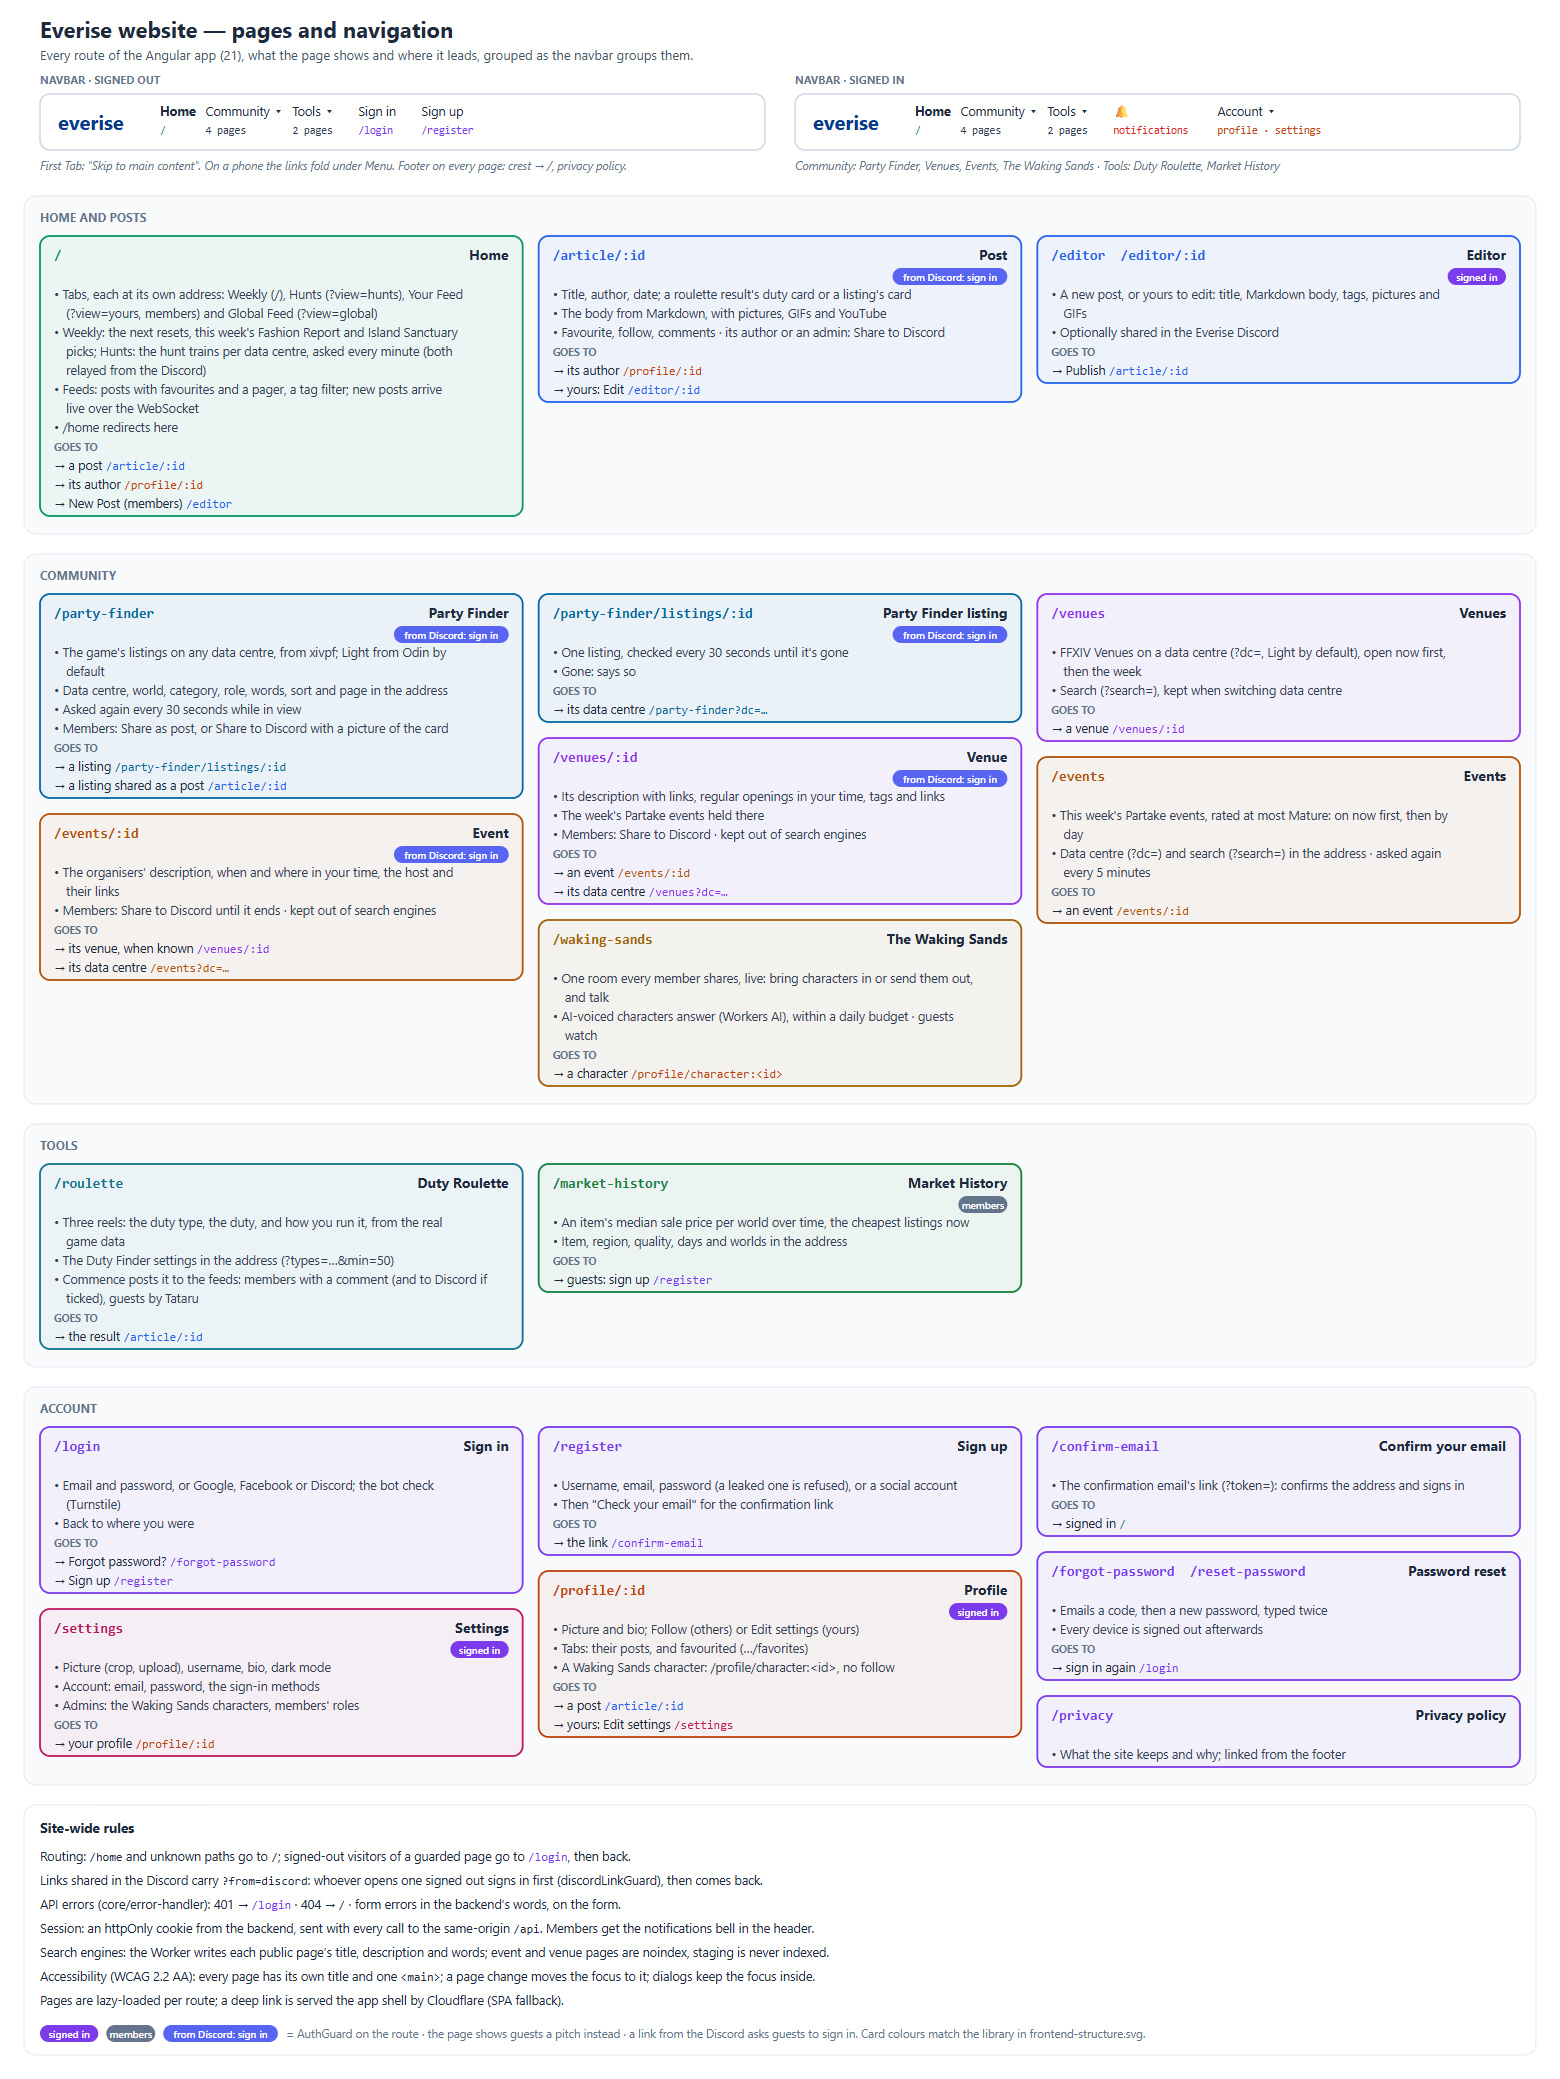
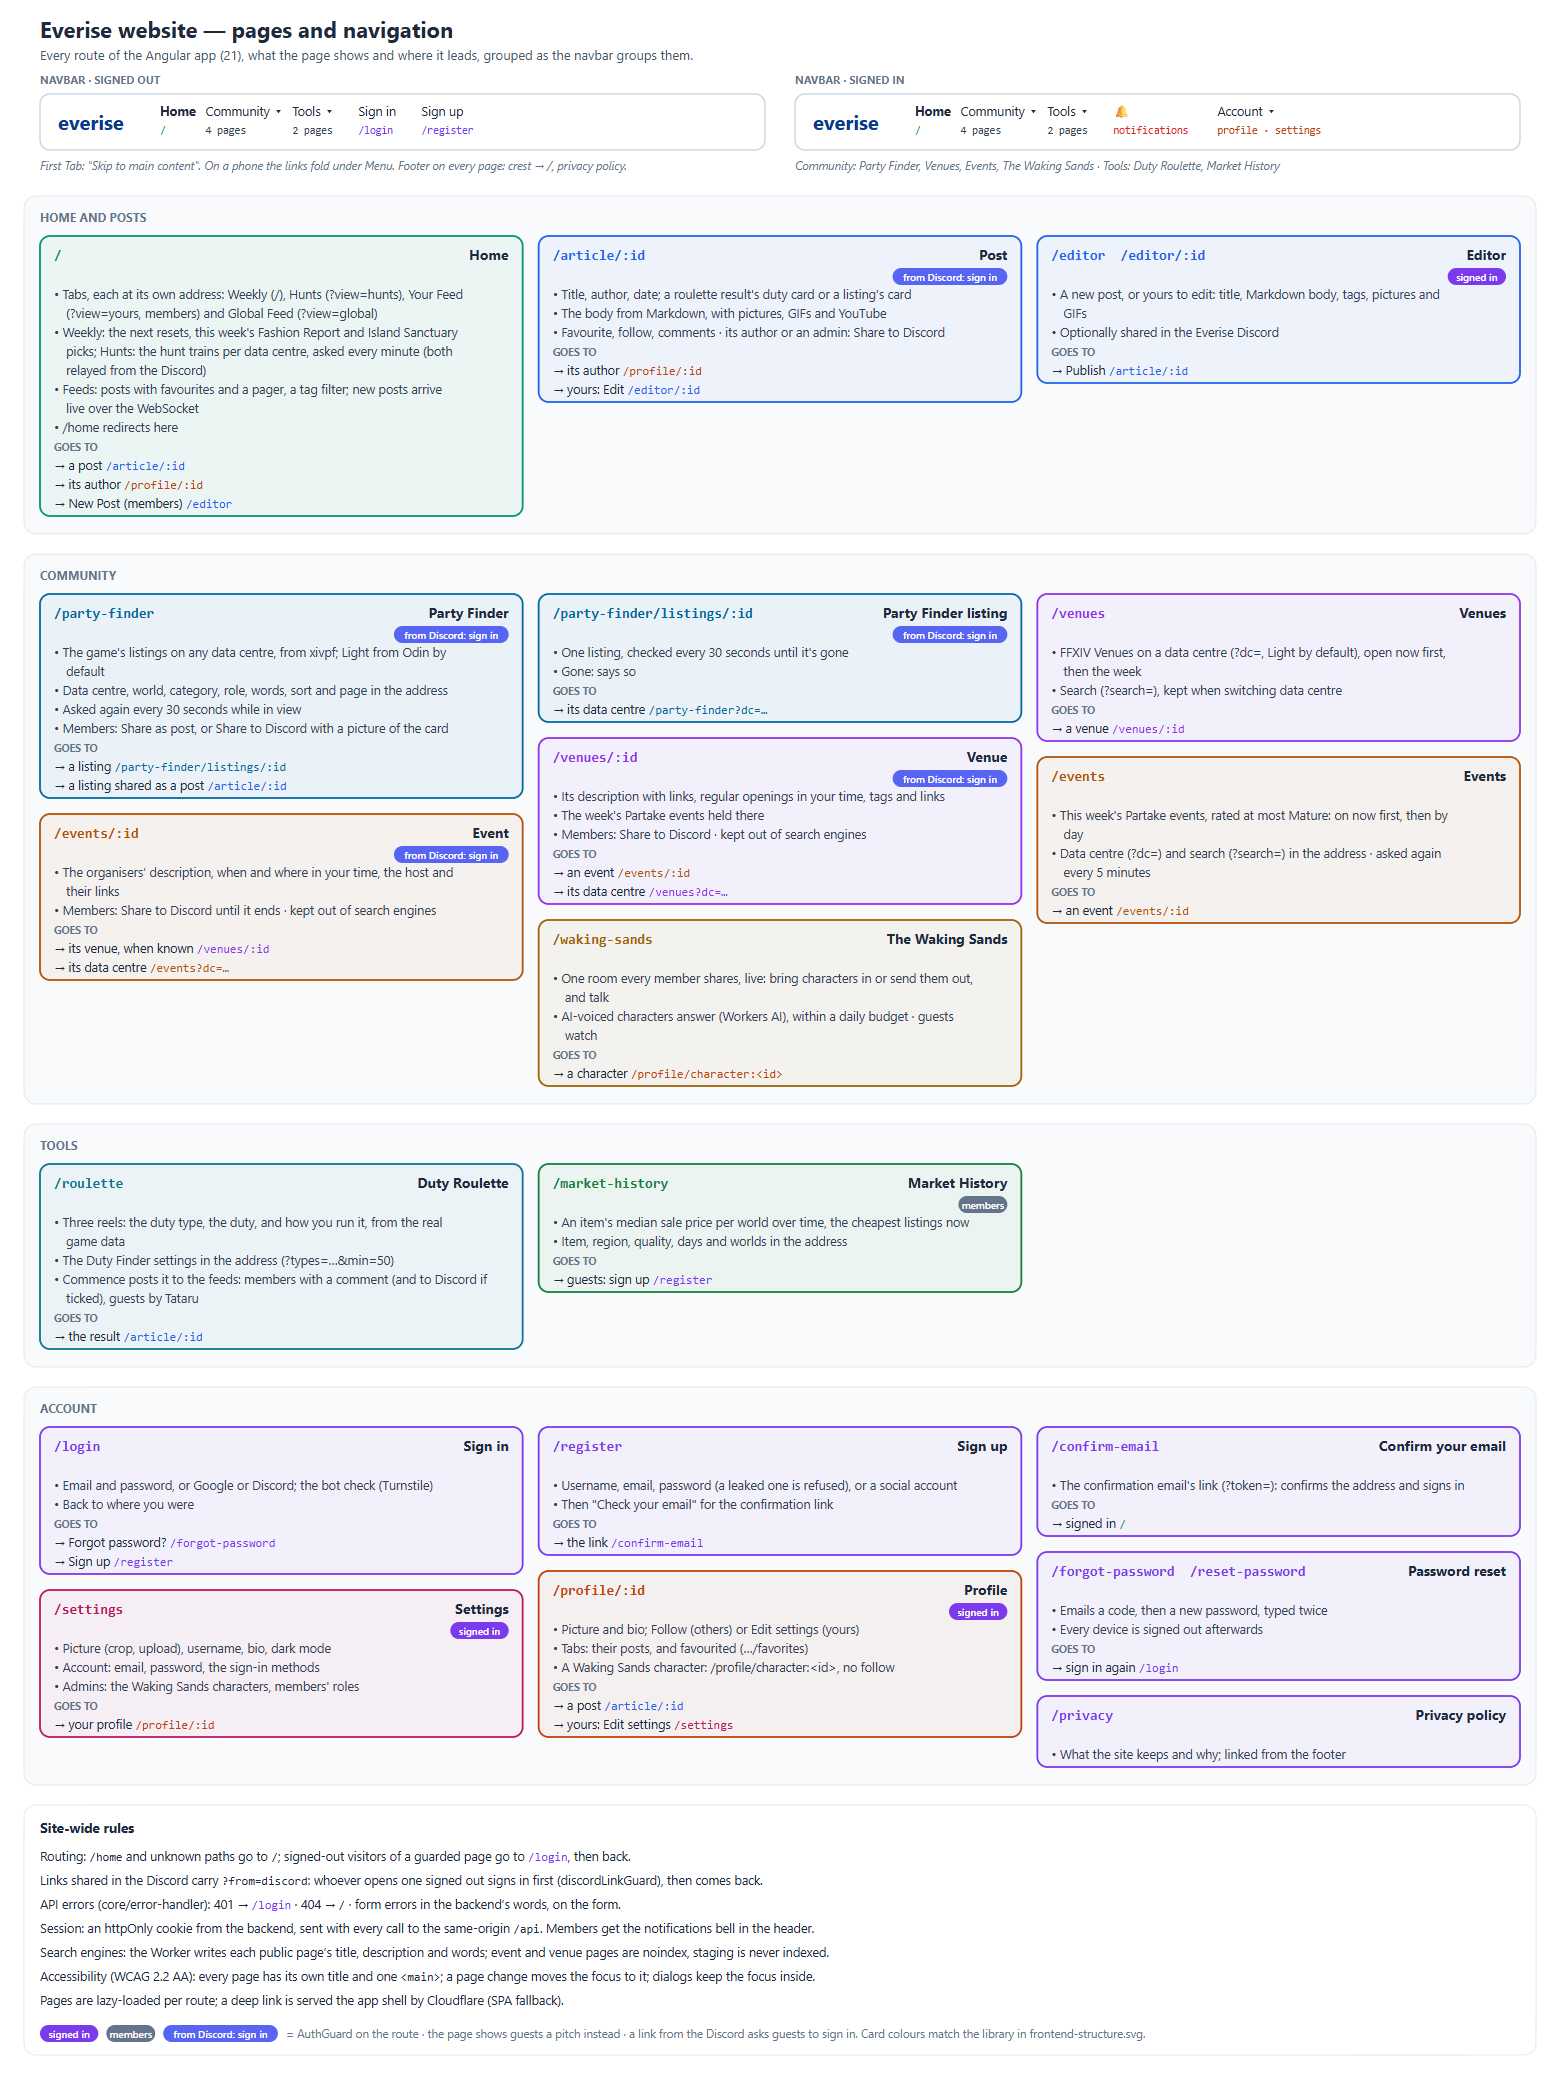
feat(auth)!: drop Facebook and Microsoft sign-in (#152)
Only Google and Discord sign-in are used, and the backend no longer
offers the others (everise-backend#105). The sign-in buttons, the
settings' list of tied accounts and the admin's member list name only
Google and Discord; their logos are gone; the privacy policy (dated
today) no longer mentions Facebook or Microsoft; the API types are
regenerated.

BREAKING CHANGE: SignInMethod no longer includes "facebook" or
"microsoft".

Changed region(s): [[0.0308, 0.708, 0.2769, 0.862], [0.2769, 0.7388, 0.3385, 0.8004]]

diff --git a/libs/auth/feature-auth/src/privacy/privacy.component.html b/libs/auth/feature-auth/src/privacy/privacy.component.html
@@ -2,7 +2,7 @@
   <div class="row">
     <article class="col-md-8 offset-md-2 col-xs-12 xiv-prose">
       <h1>Privacy policy</h1>
-      <p class="updated">Last updated 5 October 2026</p>
+      <p class="updated">Last updated 20 October 2026</p>
 
       <p>
         Everise is a small, non-commercial fan site for Final Fantasy XIV players. This page says what it stores about
@@ -17,10 +17,10 @@
           set one, and anything you add in Settings: a bio, a profile picture and your colour mode.
         </li>
         <li>
-          <strong>Signing in with Google, Facebook, Microsoft or Discord:</strong> if you continue with one of them,
-          Everise receives your name, your confirmed email address and that account's id. It keeps the email and the id,
-          to recognise you next time, and uses the name only to suggest your username. It never sees your password there
-          and never posts anything for you.
+          <strong>Signing in with Google or Discord:</strong> if you continue with one of them, Everise receives your
+          name, your confirmed email address and that account's id. It keeps the email and the id, to recognise you next
+          time, and uses the name only to suggest your username. It never sees your password there and never posts
+          anything for you.
         </li>
         <li>
           <strong>What you post:</strong> your posts, comments, favourites, the people you follow, and roulette results
@@ -37,8 +37,7 @@
       <ul>
         <li><code>token</code>: keeps you signed in, for up to a day.</li>
         <li>
-          <code>social_login</code>: lives for a few minutes while you sign in with Google, Facebook, Microsoft or
-          Discord, for safety.
+          <code>social_login</code>: lives for a few minutes while you sign in with Google or Discord, for safety.
         </li>
         <li>Your browser's local storage keeps your colour mode and roulette settings.</li>
       </ul>
@@ -47,7 +46,7 @@
       <h2>Where it is kept</h2>
       <p>
         Everise runs on Cloudflare, which stores the data and handles every request (and so sees IP addresses, as any
-        web host does). Signing in with Google, Facebook, Microsoft or Discord also follows their own privacy policies.
+        web host does). Signing in with Google or Discord also follows their own privacy policies.
       </p>
 
       <h2 id="delete-your-data">Deleting your data</h2>
@@ -59,9 +58,8 @@
       </p>
       <p>
         If you signed in with another service, you can also remove Everise there, then email as above to remove the data
-        Everise already has: Google (Google Account → Security → Your connections to third-party apps), Facebook
-        (Settings &amp; privacy → Settings → Apps and websites), Microsoft (account.microsoft.com → Privacy → Apps and
-        services) or Discord (User Settings → Authorised Apps).
+        Everise already has: Google (Google Account → Security → Your connections to third-party apps) or Discord (User
+        Settings → Authorised Apps).
       </p>
 
       <h2>Questions</h2>

diff --git a/libs/auth/feature-auth/src/social-sign-in/social-sign-in.component.spec.ts b/libs/auth/feature-auth/src/social-sign-in/social-sign-in.component.spec.ts
@@ -31,29 +31,19 @@ describe('SocialSignInComponent', () => {
   afterEach(() => TestBed.inject(FormErrorsStore).setErrors({}));
 
   it('links to the backend for each provider it is set up for', async () => {
-    const page = await render(['google', 'facebook', 'microsoft', 'discord']);
+    const page = await render(['google', 'discord']);
 
     const links = [...page.querySelectorAll('a')];
-    expect(links.map((a) => a.textContent?.trim())).toEqual([
-      'Continue with Google',
-      'Continue with Facebook',
-      'Continue with Microsoft',
-      'Continue with Discord',
-    ]);
-    expect(links.map((a) => a.getAttribute('href'))).toEqual([
-      '/api/auth/google',
-      '/api/auth/facebook',
-      '/api/auth/microsoft',
-      '/api/auth/discord',
-    ]);
+    expect(links.map((a) => a.textContent?.trim())).toEqual(['Continue with Google', 'Continue with Discord']);
+    expect(links.map((a) => a.getAttribute('href'))).toEqual(['/api/auth/google', '/api/auth/discord']);
     // The logos are decorative: the link's text names the provider.
-    expect(links.map((a) => a.querySelector('img')?.getAttribute('alt'))).toEqual(['', '', '', '']);
+    expect(links.map((a) => a.querySelector('img')?.getAttribute('alt'))).toEqual(['', '']);
     expect(page.querySelector('.divider')?.textContent?.trim()).toBe('or with your email');
   });
 
   it('shows only the providers set up, and nothing when there are none', async () => {
-    expect([...(await render(['facebook'])).querySelectorAll('a')].map((a) => a.textContent?.trim())).toEqual([
-      'Continue with Facebook',
+    expect([...(await render(['discord'])).querySelectorAll('a')].map((a) => a.textContent?.trim())).toEqual([
+      'Continue with Discord',
     ]);
     TestBed.resetTestingModule();
     expect((await render([])).textContent?.trim()).toBe('');

diff --git a/libs/settings/feature-settings/src/sign-in-methods/sign-in-methods.component.spec.ts b/libs/settings/feature-settings/src/sign-in-methods/sign-in-methods.component.spec.ts
@@ -32,16 +32,14 @@ describe('SignInMethodsComponent', () => {
   }
 
   it('shows the tied accounts and the ones that could be, in words', async () => {
-    expect(await render(['password', 'google', 'discord'], ['google', 'facebook', 'microsoft', 'discord'])).toEqual([
+    expect(await render(['password', 'google'], ['google', 'discord'])).toEqual([
       'Google Tied to this account',
-      'Facebook Not tied: sign out, then "Continue with Facebook" with this account\'s email ties it.',
-      'Microsoft Not tied: sign out, then "Continue with Microsoft" with this account\'s email ties it.',
-      'Discord Tied to this account',
+      'Discord Not tied: sign out, then "Continue with Discord" with this account\'s email ties it.',
     ]);
   });
 
   it('lists a tied provider even if it is no longer offered', async () => {
-    expect(await render(['facebook'], [])).toEqual(['Facebook Tied to this account']);
+    expect(await render(['discord'], [])).toEqual(['Discord Tied to this account']);
   });
 
   it('shows nothing when no provider is tied or offered', async () => {

diff --git a/libs/auth/feature-auth/src/social-sign-in/social-sign-in.component.ts b/libs/auth/feature-auth/src/social-sign-in/social-sign-in.component.ts
@@ -9,8 +9,6 @@ import { catchError, map, of } from 'rxjs';
 
 const PROVIDERS: Record<string, { name: string; icon: string }> = {
   google: { name: 'Google', icon: 'assets/images/google.svg' },
-  facebook: { name: 'Facebook', icon: 'assets/images/facebook.svg' },
-  microsoft: { name: 'Microsoft', icon: 'assets/images/microsoft.svg' },
   discord: { name: 'Discord', icon: 'assets/images/discord.svg' },
 };
 
@@ -25,7 +23,7 @@ export const SOCIAL_SIGN_IN_PROBLEMS: Record<string, string> = {
   unavailable: "That way of signing in isn't available right now. Use your email and password instead.",
 };
 
-// "Continue with Google / Facebook / Microsoft / Discord", on the sign-in
+// "Continue with Google / Discord", on the sign-in
 // and sign-up pages: one button both signs in and signs up. Each is a plain link to the backend,
 // which takes the person to the provider and back, signed in. Only the
 // providers the backend is set up for are shown.

diff --git a/libs/settings/feature-settings/src/sign-in-methods/sign-in-methods.component.ts b/libs/settings/feature-settings/src/sign-in-methods/sign-in-methods.component.ts
@@ -5,13 +5,11 @@ import { catchError, map, of } from 'rxjs';
 
 const PROVIDERS = [
   { id: 'google', name: 'Google', icon: 'assets/images/google.svg' },
-  { id: 'facebook', name: 'Facebook', icon: 'assets/images/facebook.svg' },
-  { id: 'microsoft', name: 'Microsoft', icon: 'assets/images/microsoft.svg' },
   { id: 'discord', name: 'Discord', icon: 'assets/images/discord.svg' },
 ] as const;
 
-// In the settings' account section: the Google, Facebook, Microsoft and
-// Discord accounts tied to this one, with a word on how to tie the others.
+// In the settings' account section: the Google and Discord accounts tied
+// to this one, with a word on how to tie the others.
 // Providers the backend isn't set up for are only listed when already tied;
 // with none at all, nothing shows.
 @Component({

diff --git a/tools/diagrams/website-structure.js b/tools/diagrams/website-structure.js
@@ -202,10 +202,7 @@ const SECTIONS = [
         title: 'Sign in',
         domain: 'auth',
         routes: ['/login'],
-        lines: [
-          'Email and password, or Google, Facebook or Discord; the bot check (Turnstile)',
-          'Back to where you were',
-        ],
+        lines: ['Email and password, or Google or Discord; the bot check (Turnstile)', 'Back to where you were'],
         to: [
           ['Forgot password?', '/forgot-password', 'auth'],
           ['Sign up', '/register', 'auth'],

diff --git a/libs/auth/feature-auth/src/privacy/privacy.component.ts b/libs/auth/feature-auth/src/privacy/privacy.component.ts
@@ -2,7 +2,7 @@ import { ChangeDetectionStrategy, Component } from '@angular/core';
 import { RouterLink } from '@angular/router';
 
 // The privacy policy, linked from the footer and given to Google and
-// Facebook for their sign-in apps. Keep it in step with what the backend
+// Discord for their sign-in apps. Keep it in step with what the backend
 // stores (its README's Database section).
 @Component({
   selector: 'cdt-privacy',

diff --git a/libs/core/api-types/src/lib/user.ts b/libs/core/api-types/src/lib/user.ts
@@ -8,7 +8,7 @@ export type User = Schemas['User'];
 export type Role = User['role'];
 
 // How the account can be signed in to: its password, and the provider
-// accounts (Google, Facebook, Microsoft, Discord) tied to it.
+// accounts (Google, Discord) tied to it.
 export type SignInMethod = User['signInMethods'][number];
 
 export type UserResponse = Schemas['UserResponse'];

diff --git a/libs/auth/data-access/src/auth.service.ts b/libs/auth/data-access/src/auth.service.ts
@@ -32,7 +32,7 @@ export class AuthService {
   }
 
   // The ways to sign in besides email and password that the backend is set
-  // up for, e.g. ["google", "facebook"].
+  // up for, e.g. ["google", "discord"].
   providers(): Observable<ProvidersResponse> {
     return this.apiService.get<ProvidersResponse>('/auth/providers');
   }

diff --git a/libs/settings/feature-settings/src/admin-members/admin-members.component.ts b/libs/settings/feature-settings/src/admin-members/admin-members.component.ts
@@ -34,8 +34,6 @@ import {
 const SIGN_IN_NAMES: Record<Member['signInMethods'][number], string> = {
   password: 'Email',
   google: 'Google',
-  facebook: 'Facebook',
-  microsoft: 'Microsoft',
   discord: 'Discord',
 };
 
